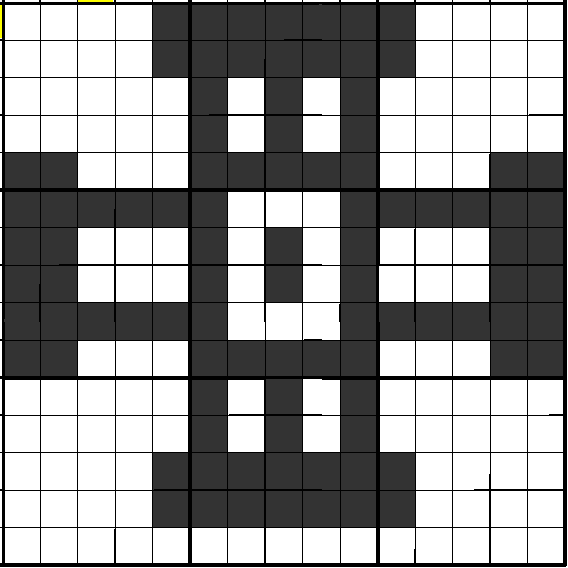
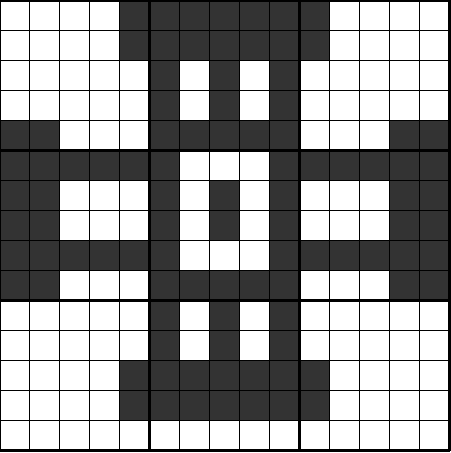
그림 배치변경

Changed region(s): [[0.0, 0.0, 1.0, 1.0], [0.4346, 0.8344, 0.4967, 0.8653], [0.4346, 0.7726, 0.4967, 0.8035]]

diff --git a/Nemo/src/MainBoard15X15.java b/Nemo/src/MainBoard15X15.java
@@ -95,79 +95,71 @@ public class MainBoard15X15 extends Canvas
 		initBufferd();
 		offG.clearRect(0, 0, dim.width, dim.height);
 		offG.setColor(Color.black);
-		offG.setFont(new Font("SansSerif", Font.BOLD, 14));
-		offG.drawString("15X15", 85,20);
+		offG.setFont(new Font("SansSerif", Font.BOLD, 20));
+		offG.drawString("15X15", 275,20);
 	
 		if(nemo15X1.getendFlag()) {
-			offG.drawImage(phone, 10, 30, 75, 85, 0, 0, 570, 570, nemo15X1);
+			offG.drawImage(phone, 55, 30, 185, 205, 0, 0, 564, 567, nemo15X1);
 		}
 		else {
-			offG.drawImage(mark, 10, 30, 75, 85, 0, 0, 348, 348, nemo15X1);
+			offG.drawImage(mark, 55, 30, 185, 205, 0, 0, 348, 348, nemo15X1);
 		}
 		
 		if(nemo15X2.getendFlag()) {
-			offG.drawImage(cow, 70, 30, 135, 85, 0, 0, 570, 570, nemo15X2);
+			offG.drawImage(cow, 235, 30, 365, 205, 0, 0, 563, 564, nemo15X2);
 		}
 		else {
-			offG.drawImage(mark, 70, 30, 135, 85, 0, 0, 348, 348, nemo15X2);
-		}
-		
-		if(nemo15X2.getendFlag()) {
-			offG.drawImage(cow, 130, 30, 195, 85, 0, 0, 570, 570, nemo15X2);
-		}
-		else {
-			offG.drawImage(mark, 130, 30, 195, 85, 0, 0, 348, 348, nemo15X2);
+			offG.drawImage(mark, 235, 30, 365, 205, 0, 0, 348, 348, nemo15X2);
 		}
 		
 		if(nemo15X3.getendFlag()) {
-			offG.drawImage(mikimouse, 10, 90, 75, 145, 0, 0, 570, 570, nemo15X3);
+			offG.drawImage(mikimouse, 415, 30, 545, 205, 0, 0, 566, 566, nemo15X3);
 		}
 		else {
-			offG.drawImage(mark, 10, 90, 75, 145, 0, 0, 348, 348, nemo15X3);
+			offG.drawImage(mark, 415, 30, 545, 205, 0, 0, 348, 348, nemo15X3);
 		}
 		
 		if(nemo15X4.getendFlag()) {
-			offG.drawImage(Penguin, 70, 90, 135, 145, 0, 0, 570, 570, nemo15X4);
+			offG.drawImage(Penguin, 55, 255, 185, 425, 0, 0, 565, 569, nemo15X4);
 		}
 		else {
-			offG.drawImage(mark, 70, 90, 135, 145, 0, 0, 348, 348, nemo15X4);
+			offG.drawImage(mark, 55, 255, 185, 425, 0, 0, 348, 348, nemo15X4);
 		}
 		
 		if(nemo15X5.getendFlag()) {
-			offG.drawImage(rabbit, 130, 90, 195, 145, 0, 0, 570, 570, nemo15X5);
+			offG.drawImage(rabbit, 235, 255, 365, 425, 0, 0, 568, 565, nemo15X5);
 		}
 		else {
-			offG.drawImage(mark, 130, 90, 195, 145, 0, 0, 570, 570, nemo15X5);
+			offG.drawImage(mark, 235, 255, 365, 425, 0, 0, 348, 348, nemo15X5);
 		}
 		
 		if(nemo15X6.getendFlag()) {
-			offG.drawImage(wing, 10, 150, 75, 205, 0, 0, 570, 570, nemo15X6);
+			offG.drawImage(wing, 415, 255, 545, 425, 0, 0, 562, 562, nemo15X6);
 		}
 		else {
-			offG.drawImage(mark, 10, 150, 75, 205, 0, 0, 348, 348, nemo15X6);
+			offG.drawImage(mark, 415, 255, 545, 425, 0, 0, 348, 348, nemo15X6);
 		}
 		
 		if(nemo15X7.getendFlag()) {
-			offG.drawImage(boots, 70, 150, 135, 205, 0, 0, 570, 570, nemo15X7);
+			offG.drawImage(boots, 55, 475, 185, 650, 0, 0, 567, 564, nemo15X7);
 		}
 		else {
-			offG.drawImage(mark, 70, 150, 135, 205, 0, 0, 348, 348, nemo15X7);
+			offG.drawImage(mark, 55, 475, 185, 650, 0, 0, 348, 348, nemo15X7);
 		}
 		
 		if(nemo15X8.getendFlag()) {
-			offG.drawImage(cross, 130, 150, 195, 205, 0, 0, 570, 570, nemo15X8);
+			offG.drawImage(cross, 235, 475, 365, 650, 0, 0, 451, 453, nemo15X8);
 		}
 		else {
-			offG.drawImage(mark, 130, 150, 195, 205, 0, 0, 348, 348, nemo15X8);
+			offG.drawImage(mark, 235, 475, 365, 650, 0, 0, 348, 348, nemo15X8);
 		}
+		
 		if(nemo15X9.getendFlag()) {
-			offG.drawImage(arrow, 130, 150, 195, 205, 0, 0, 570, 570, nemo15X9);
+			offG.drawImage(arrow, 415, 475, 545, 650, 0, 0, 565, 564, nemo15X9);
 		}
 		else {
-			offG.drawImage(mark, 130, 150, 195, 205, 0, 0, 348, 348, nemo15X9);
+			offG.drawImage(mark, 415, 475, 545, 650, 0, 0, 348, 348, nemo15X9);
 		}
-	offG.setColor(Color.black);
-	offG.fillRect(400, 400, 40, 40);
 	g.drawImage(offScr, 0, 0, null); //가상 화면을 실제 화면으로 복사
 }
 
@@ -212,35 +204,32 @@ public void mouseReleased(MouseEvent e) {
 	}
 	else //마우스 왼쪽 버튼 
 	{
-		if((x>29 && x<91) && (y>29 && y<91)) {
+		if((x>54 && x<186) && (y>29 && y<206)) {
 			parent.win.change("nemo15X1");
 		}
-		if((x>89 && x<151) && (y>29 && y<91)) {
+		if((x>234 && x<366) && (y>29 && y<206)) {
 			parent.win.change("nemo15X2");
 		}
-		if((x>149 && x<211) && (y>29 && y<91)) {
+		if((x>414 && x<546) && (y>29 && y<206)) {
 			parent.win.change("nemo15X3");
 		}
-		if((x>29 && x<91) && (y>89 && y<151)) {
+		if((x>54 && x<186) && (y>254 && y<426)) {
 			parent.win.change("nemo15X4");
 		}
-		if((x>89 && x<151) && (y>89 && y<151)) {
+		if((x>234 && x<366) && (y>254 && y<426)) {
 			parent.win.change("nemo15X5");
 		}
-		if((x>149 && x<211) && (y>89 && y<151)) {
+		if((x>414 && x<546) && (y>254 && y<426)) {
 			parent.win.change("nemo15X6");
 		}
-		if((x>29 && x<91) && (y>159 && y<211)) {
+		if((x>29 && x<186) && (y>474 && y<651)) {
 			parent.win.change("nemo15X7");
 		}
-		if((x>89 && x<151) && (y>159 && y<211)) {
+		if((x>234 && x<366) && (y>474 && y<651)) {
 			parent.win.change("nemo15X8");
 		}
-		if((x>149 && x<211) && (y>159 && y<211)) {
+		if((x>414 && x<546) && (y>474 && y<651)) {
 			parent.win.change("nemo15X9");
-		}
-		if((x>399 && x<441) && (y>399 && y<441)) {
-			parent.win.change("mainp");
 		}
 	}
 }

diff --git a/Nemo/src/MainBoard10X10.java b/Nemo/src/MainBoard10X10.java
@@ -83,7 +83,6 @@ public class MainBoard10X10 extends Canvas //Canvas 클래스를 상속
 
 	public void initBufferd() {
 		dim = getSize();
-		setBackground(Color.white);
 		offScr = createImage(dim.width,dim.height);
 		offG = offScr.getGraphics();
 	}
@@ -91,70 +90,71 @@ public class MainBoard10X10 extends Canvas //Canvas 클래스를 상속
 	public void paint(Graphics g) {
 		initBufferd();
 		offG.clearRect(0, 0, dim.width, dim.height);
+		
 		offG.setColor(Color.black);
-		offG.setFont(new Font("SansSerif", Font.BOLD, 14));
-		offG.drawString("10X10", 85,20);
+		offG.setFont(new Font("SansSerif", Font.BOLD, 20));
+		offG.drawString("10X10", 275,20);
 		if(nemo.getendFlag()) {
-			offG.drawImage(dog, 10, 30, 75, 85, 0, 0, 251, 251, nemo);
+			offG.drawImage(dog, 55, 30, 185, 205, 0, 0, 251, 251, nemo);
 		}
 		else {
-			offG.drawImage(mark, 10, 30, 75, 85, 0, 0, 348, 348, nemo);
+			offG.drawImage(mark, 55, 30, 185, 205, 0, 0, 348, 348, nemo);
 		}
 		
 		if(nemo1.getendFlag()) {
-			offG.drawImage(snale, 70, 30, 135, 85, 0, 0, 251, 249, nemo1);
+			offG.drawImage(snale, 235, 30, 365, 205, 0, 0, 251, 249, nemo1);
 		}
 		else {
-			offG.drawImage(mark, 70, 30, 135, 85, 0, 0, 348, 348, nemo1);
+			offG.drawImage(mark, 235, 30, 365, 205, 0, 0, 348, 348, nemo1);
 		}
 		
 		if(nemo2.getendFlag()) {
-			offG.drawImage(deer, 130, 30, 195, 85, 0, 0, 253, 251, nemo2);
+			offG.drawImage(deer, 415, 30, 545, 205, 0, 0, 253, 251, nemo2);
 		}
 		else {
-			offG.drawImage(mark, 130, 30, 195, 85, 0, 0, 348, 348, nemo2);
+			offG.drawImage(mark, 415, 30, 545, 205, 0, 0, 348, 348, nemo2);
 		}
 		
 		if(nemo3.getendFlag()) {
-			offG.drawImage(lp판, 10, 90, 75, 145, 0, 0, 253, 251, nemo3);
+			offG.drawImage(lp판, 55, 255, 185, 425, 0, 0, 253, 251, nemo3);
 		}
 		else {
-			offG.drawImage(mark, 10, 90, 75, 145, 0, 0, 348, 348, nemo3);
+			offG.drawImage(mark, 55, 255, 185, 425, 0, 0, 348, 348, nemo3);
 		}
 		
 		if(nemo4.getendFlag()) {
-			offG.drawImage(coffee, 70, 90, 135, 145, 0, 0, 253, 251, nemo4);
+			offG.drawImage(coffee, 235, 255, 365, 425, 0, 0, 253, 251, nemo4);
 		}
 		else {
-			offG.drawImage(mark, 70, 90, 135, 145, 0, 0, 348, 348, nemo4);
+			offG.drawImage(mark, 235, 255, 365, 425, 0, 0, 348, 348, nemo4);
 		}
 		
 		if(nemo5.getendFlag()) {
-			offG.drawImage(kid, 130, 90, 195, 145, 0, 0, 253, 251, nemo5);
+			offG.drawImage(kid, 415, 255, 545, 425, 0, 0, 253, 251, nemo5);
 		}
 		else {
-			offG.drawImage(mark, 130, 90, 195, 145, 0, 0, 348, 348, nemo5);
+			offG.drawImage(mark, 415, 255, 545, 425, 0, 0, 348, 348, nemo5);
 		}
 		
 		if(nemo6.getendFlag()) {
-			offG.drawImage(cissors, 10, 150, 75, 205, 0, 0, 499, 505, nemo6);
+			offG.drawImage(cissors, 55, 475, 185, 650, 0, 0, 499, 505, nemo6);
 		}
 		else {
-			offG.drawImage(mark, 10, 150, 75, 205, 0, 0, 348, 348, nemo6);
+			offG.drawImage(mark, 55, 475, 185, 650, 0, 0, 348, 348, nemo6);
 		}
 		
 		if(nemo7.getendFlag()) {
-			offG.drawImage(kettle, 70, 150, 135, 205, 0, 0, 409, 501, nemo7);
+			offG.drawImage(kettle, 235, 475, 365, 650, 0, 0, 409, 501, nemo7);
 		}
 		else {
-			offG.drawImage(mark, 70, 150, 135, 205, 0, 0, 348, 348, nemo7);
+			offG.drawImage(mark, 235, 475, 365, 650, 0, 0, 348, 348, nemo7);
 		}
 		
 		if(nemo8.getendFlag()) {
-			offG.drawImage(candle, 130, 150, 195, 205, 0, 0, 503, 503, nemo8);
+			offG.drawImage(candle, 415, 475, 545, 650, 0, 0, 503, 503, nemo8);
 		}
 		else {
-			offG.drawImage(mark, 130, 150, 195, 205, 0, 0, 348, 348, nemo8);
+			offG.drawImage(mark, 415, 475, 545, 650, 0, 0, 348, 348, nemo8);
 		}
 		
 		g.drawImage(offScr, 0, 0, null); //가상 화면을 실제 화면으로 복사
@@ -201,31 +201,31 @@ public class MainBoard10X10 extends Canvas //Canvas 클래스를 상속
 		}
 		else //마우스 왼쪽 버튼 
 		{
-			if((x>29 && x<91) && (y>29 && y<91)) {
+			if((x>54 && x<186) && (y>29 && y<206)) {
 				parent.win.change("nemo");
 			}
-			if((x>89 && x<151) && (y>29 && y<91)) {
+			if((x>234 && x<366) && (y>29 && y<206)) {
 				parent.win.change("nemo1");
 			}
-			if((x>149 && x<211) && (y>29 && y<91)) {
+			if((x>414 && x<546) && (y>29 && y<206)) {
 				parent.win.change("nemo2");
 			}
-			if((x>29 && x<91) && (y>89 && y<151)) {
+			if((x>54 && x<186) && (y>254 && y<426)) {
 				parent.win.change("nemo3");
 			}
-			if((x>89 && x<151) && (y>89 && y<151)) {
+			if((x>234 && x<366) && (y>254 && y<426)) {
 				parent.win.change("nemo4");
 			}
-			if((x>149 && x<211) && (y>89 && y<151)) {
+			if((x>414 && x<546) && (y>254 && y<426)) {
 				parent.win.change("nemo5");
 			}
-			if((x>29 && x<91) && (y>159 && y<211)) {
+			if((x>29 && x<186) && (y>474 && y<651)) {
 				parent.win.change("nemo6");
 			}
-			if((x>89 && x<151) && (y>159 && y<211)) {
+			if((x>234 && x<366) && (y>474 && y<651)) {
 				parent.win.change("nemo7");
 			}
-			if((x>149 && x<211) && (y>159 && y<211)) {
+			if((x>414 && x<546) && (y>474 && y<651)) {
 				parent.win.change("nemo8");
 			}
 		}

diff --git a/Nemo/src/MainPanel10X10.java b/Nemo/src/MainPanel10X10.java
@@ -1,3 +1,4 @@
+import java.awt.Color;
 import java.awt.Font;
 import java.awt.event.ActionEvent;
 import java.awt.event.ActionListener;
@@ -14,7 +15,7 @@ public class MainPanel10X10 extends JPanel
 	{	
 		OtherFrame.JPanelTest win;
 		JPanel Mainp;
-		
+		Test board;
 		MainBoard10X10 board1;
 		
 		public MainPanel10X10(OtherFrame.JPanelTest win){
@@ -28,10 +29,14 @@ public class MainPanel10X10 extends JPanel
 			board1 = new MainBoard10X10(this);
 			this.add(board1);
 			board1.setFont(new Font("SansSerif", Font.BOLD, 14));
-			board1.setBounds(120, 120, 600, 600);
+			board1.setBounds(270, 120, 600, 680);
+			
+			board1.setBackground(Color.white);
+			
+			
 			JButton btn = new JButton("15X15");
 	        btn.setSize(110, 20);
-	        btn.setLocation(751, 401);
+	        btn.setLocation(901, 455);
 	        add(btn);
 	        btn.addActionListener(new MyActionListener());
 			bgplay();

diff --git a/Nemo/src/OtherFrame.java b/Nemo/src/OtherFrame.java
@@ -34,7 +34,7 @@ public class OtherFrame extends JFrame
 	JMenu helpMenu = new JMenu("Help");
 	
 	//부착(add)할 클래스의 선언
-	Nemo2Dog board;
+	
 	MainBoard10X10 board1;
 	MainBoard15X15 board2;
 	Column col;
@@ -69,9 +69,11 @@ public class OtherFrame extends JFrame
 	     win.setBackground(Color.white);
 	     win.add(win.mainp);
 	     win.setDefaultCloseOperation(JFrame.DISPOSE_ON_CLOSE);
-	     win.setSize(900, 900);
+	     win.setSize(1200, 1200);
 	     win.setVisible(true);
 	     win.setDefaultCloseOperation(JFrame.EXIT_ON_CLOSE);
+	     
+	    
 	     
 	}
 		

diff --git a/Nemo/src/MainPanel15X15.java b/Nemo/src/MainPanel15X15.java
@@ -27,11 +27,11 @@ public class MainPanel15X15 extends JPanel{
 		board2 = new MainBoard15X15(this);
 		this.add(board2);
 		board2.setFont(new Font("SansSerif", Font.BOLD, 14));
-		board2.setBounds(120, 120, 601, 601);
+		board2.setBounds(270, 120, 600, 680);
 		bgplay();
 		JButton btn = new JButton("10X10");
 	    btn.setSize(110, 20);
-        btn.setLocation(7, 391);
+        btn.setLocation(120, 455);
         add(btn);
         btn.addActionListener(new MyActionListener());
         bgplay();
